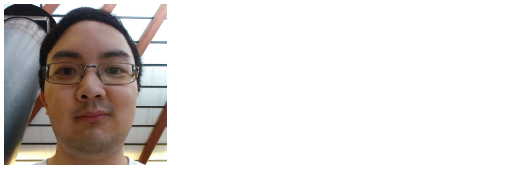
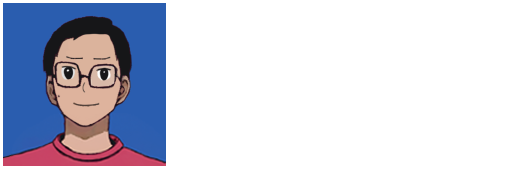
Add more games

Changed region(s): [[0.0, 0.0, 0.3378, 1.0]]

diff --git a/public/index.html b/public/index.html
@@ -1,0 +1,248 @@
+
+<!DOCTYPE html>
+<html lang="en">
+<head>
+    <meta charset="utf-8">
+    <meta http-equiv="X-UA-Compatible" content="IE=edge">    <!-- The above 3 meta tags *must* come first in the head; any other head content must come *after* these tags -->
+
+    <title>Arvin Gunawan - Game Developer</title>
+
+    <!-- Bootstrap CSS -->
+    <link rel="stylesheet" href="https://maxcdn.bootstrapcdn.com/bootstrap/4.0.0-alpha.5/css/bootstrap.min.css"
+          integrity="sha384-AysaV+vQoT3kOAXZkl02PThvDr8HYKPZhNT5h/CXfBThSRXQ6jW5DO2ekP5ViFdi" crossorigin="anonymous">
+    <!-- Custom styles for this template -->
+    <link href="assets/custom.css" rel="stylesheet">
+</head>
+
+<body>
+
+<div class="container-wrapper">
+    <div class="header row clearfix">
+        <nav>
+            <ul class="nav nav-pills float-xs-right">
+                <li class="nav-item">
+                    <a class="nav-link" href="#about-me">About Me</a>
+                </li>
+            </ul>
+        </nav>
+        <div class="logo">
+            <img width="100%" style="max-height: 150px" src="assets/images/ProfilePic+Name.png" alt="">
+        </div>
+    </div>    <div class="row title">
+        <h1><b>Commercial Titles</b></h1>
+    </div>        <div class="row portfolio-item">
+            <div class="thumbnails-wrapper">                    <div id="thumb-topplepop-0" class="thumb">
+                        <img data-carousel-name="topplepop" src="assets/portfolio/topplepop/thumbs/topplepop-youtube-thumb.png" alt="">
+                    </div>                    <div id="thumb-topplepop-1" class="thumb">
+                        <img data-carousel-name="topplepop" src="assets/portfolio/topplepop/thumbs/screenshot1-thumb.jpg" alt="">
+                    </div>                    <div id="thumb-topplepop-2" class="thumb">
+                        <img data-carousel-name="topplepop" src="assets/portfolio/topplepop/thumbs/screenshot2-thumb.jpg" alt="">
+                    </div>                    <div id="thumb-topplepop-3" class="thumb">
+                        <img data-carousel-name="topplepop" src="assets/portfolio/topplepop/thumbs/screenshot3-thumb.jpg" alt="">
+                    </div>                    <div id="thumb-topplepop-4" class="thumb">
+                        <img data-carousel-name="topplepop" src="assets/portfolio/topplepop/thumbs/screenshot4-thumb.jpg" alt="">
+                    </div>            </div>
+            <div class="carousel-wrapper">
+                <div id="topplepop" class="carousel slide" data-ride="carousel">                    <div class="carousel-inner" role="listbox">                            <div class="carousel-item active">                                    <iframe id="youtube-topplepop-1" width="100%" height="402" src="https://www.youtube.com/embed/AJ24FYkqXjg" frameborder="0" allowfullscreen></iframe>                            </div>                            <div class="carousel-item">                                    <img src="assets/portfolio/topplepop/screenshots/screenshot1-large.jpg" alt="">                            </div>                            <div class="carousel-item">                                    <img src="assets/portfolio/topplepop/screenshots/screenshot2-large.jpg" alt="">                            </div>                            <div class="carousel-item">                                    <img src="assets/portfolio/topplepop/screenshots/screenshot3-large.jpg" alt="">                            </div>                            <div class="carousel-item">                                    <img src="assets/portfolio/topplepop/screenshots/screenshot4-large.jpg" alt="">                            </div>                    </div>                </div>
+            </div>
+            <div class="description-wrapper"><h2>TopplePOP</h2>
+<p>
+TopplePOP is physics-based puzzle game for 1-4 players. Designed for solo as well as team play in competitive battles, speed-run leaderboards and spectacular couch co-op parties, or topple the evil megacorp 'Blockcorp' in Story mode!
+</p>
+<p><strong>Release Date: </strong>~2023<br>
+<strong>Platforms: </strong> PC, Switch<br>
+<strong>Website: </strong><a target="_blank" href="https://topplepop.com/">https://topplepop.com/</a></p>
+            </div>
+        </div>        <div class="row portfolio-item">
+            <div class="thumbnails-wrapper">                    <div id="thumb-inflatality-0" class="thumb">
+                        <img data-carousel-name="inflatality" src="assets/portfolio/inflatality/thumbs/inflatality-youtube-thumb.png" alt="">
+                    </div>                    <div id="thumb-inflatality-1" class="thumb">
+                        <img data-carousel-name="inflatality" src="assets/portfolio/inflatality/thumbs/screenshot1-thumb.png" alt="">
+                    </div>                    <div id="thumb-inflatality-2" class="thumb">
+                        <img data-carousel-name="inflatality" src="assets/portfolio/inflatality/thumbs/screenshot2-thumb.png" alt="">
+                    </div>                    <div id="thumb-inflatality-3" class="thumb">
+                        <img data-carousel-name="inflatality" src="assets/portfolio/inflatality/thumbs/screenshot3-thumb.png" alt="">
+                    </div>                    <div id="thumb-inflatality-4" class="thumb">
+                        <img data-carousel-name="inflatality" src="assets/portfolio/inflatality/thumbs/screenshot4-thumb.png" alt="">
+                    </div>            </div>
+            <div class="carousel-wrapper">
+                <div id="inflatality" class="carousel slide" data-ride="carousel">                    <div class="carousel-inner" role="listbox">                            <div class="carousel-item active">                                    <iframe id="youtube-inflatality-1" width="100%" height="402" src="https://www.youtube.com/embed/cs0UsYf9XEQ" frameborder="0" allowfullscreen></iframe>                            </div>                            <div class="carousel-item">                                    <img src="assets/portfolio/inflatality/screenshots/screenshot1-large.jpg" alt="">                            </div>                            <div class="carousel-item">                                    <img src="assets/portfolio/inflatality/screenshots/screenshot2-large.jpg" alt="">                            </div>                            <div class="carousel-item">                                    <img src="assets/portfolio/inflatality/screenshots/screenshot3-large.jpg" alt="">                            </div>                            <div class="carousel-item">                                    <img src="assets/portfolio/inflatality/screenshots/screenshot4-large.jpg" alt="">                            </div>                    </div>                </div>
+            </div>
+            <div class="description-wrapper"><h2>Inflatality</h2>
+<p>Derpy physics-based fighting game featuring inflatable 
+wavers beating on each other
+</p>
+<p>Each player crafts their own waver, complete with personalised faces, colours, decals and special skills, then do battle in hilarious, rubbery flailing combat.</p>
+
+<p>The gameplay is half fumblecore, half brutal action as wind, physics and low  cunning all play vital roles in securing victory.</p>
+
+<p><strong>Release Date: </strong>26/10/2017<br>
+<strong>Platforms: </strong>PC (Steam)<br>
+<strong>Website: </strong><a target="_blank" href="http://www.inflatality.com">http://www.inflatality.com</a></p>
+            </div>
+        </div>        <div class="row portfolio-item">
+            <div class="thumbnails-wrapper">                    <div id="thumb-royalabc-0" class="thumb">
+                        <img data-carousel-name="royalabc" src="assets/portfolio/royalabc/thumbs/royalabc-youtube-thumb.jpg" alt="">
+                    </div>                    <div id="thumb-royalabc-1" class="thumb">
+                        <img data-carousel-name="royalabc" src="assets/portfolio/royalabc/thumbs/screenshot1-thumb.jpg" alt="">
+                    </div>                    <div id="thumb-royalabc-2" class="thumb">
+                        <img data-carousel-name="royalabc" src="assets/portfolio/royalabc/thumbs/screenshot2-thumb.jpg" alt="">
+                    </div>                    <div id="thumb-royalabc-3" class="thumb">
+                        <img data-carousel-name="royalabc" src="assets/portfolio/royalabc/thumbs/screenshot3-thumb.jpg" alt="">
+                    </div>                    <div id="thumb-royalabc-4" class="thumb">
+                        <img data-carousel-name="royalabc" src="assets/portfolio/royalabc/thumbs/screenshot4-thumb.jpg" alt="">
+                    </div>            </div>
+            <div class="carousel-wrapper">
+                <div id="royalabc" class="carousel slide" data-ride="carousel">                    <div class="carousel-inner" role="listbox">                            <div class="carousel-item active">                                    <iframe id="youtube-royalabc-1" width="100%" height="402" src="https://www.youtube.com/embed/krkyxlik1bg" frameborder="0" allowfullscreen></iframe>                            </div>                            <div class="carousel-item">                                    <img src="assets/portfolio/royalabc/screenshots/screenshot1-large.jpg" alt="">                            </div>                            <div class="carousel-item">                                    <img src="assets/portfolio/royalabc/screenshots/screenshot2-large.jpg" alt="">                            </div>                            <div class="carousel-item">                                    <img src="assets/portfolio/royalabc/screenshots/screenshot3-large.jpg" alt="">                            </div>                            <div class="carousel-item">                                    <img src="assets/portfolio/royalabc/screenshots/screenshot4-large.jpg" alt="">                            </div>                    </div>                </div>
+            </div>
+            <div class="description-wrapper"><h2>RoyalABC</h2>
+<p>
+RoyalABC is an educational games platform designed to help young kids all over the world in English Learning as well as other 21st century skills. 
+</p>
+<p><strong>Release Date: </strong>2016<br>
+<strong>Platforms: </strong> PC, iOS, Android<br>
+<strong>Website: </strong> <a target="_blank" href="https://royalabc.com/gb/">https://royalabc.com/gb/</a></p>
+            </div>
+        </div>        <div class="row portfolio-item">
+            <div class="thumbnails-wrapper">                    <div id="thumb-readysetgolf-0" class="thumb">
+                        <img data-carousel-name="readysetgolf" src="assets/portfolio/readysetgolf/thumbs/readysetgolf-youtube-thumb.png" alt="">
+                    </div>                    <div id="thumb-readysetgolf-1" class="thumb">
+                        <img data-carousel-name="readysetgolf" src="assets/portfolio/readysetgolf/thumbs/screenshot1-thumb.png" alt="">
+                    </div>                    <div id="thumb-readysetgolf-2" class="thumb">
+                        <img data-carousel-name="readysetgolf" src="assets/portfolio/readysetgolf/thumbs/screenshot2-thumb.png" alt="">
+                    </div>                    <div id="thumb-readysetgolf-3" class="thumb">
+                        <img data-carousel-name="readysetgolf" src="assets/portfolio/readysetgolf/thumbs/screenshot3-thumb.png" alt="">
+                    </div>                    <div id="thumb-readysetgolf-4" class="thumb">
+                        <img data-carousel-name="readysetgolf" src="assets/portfolio/readysetgolf/thumbs/screenshot4-thumb.png" alt="">
+                    </div>            </div>
+            <div class="carousel-wrapper">
+                <div id="readysetgolf" class="carousel slide" data-ride="carousel">                    <div class="carousel-inner" role="listbox">                            <div class="carousel-item active">                                    <iframe id="youtube-readysetgolf-1" width="100%" height="402" src="https://www.youtube.com/embed/6FOHZIvlilM" frameborder="0" allowfullscreen></iframe>                            </div>                            <div class="carousel-item">                                    <img src="assets/portfolio/readysetgolf/screenshots/screenshot1-large.png" alt="">                            </div>                            <div class="carousel-item">                                    <img src="assets/portfolio/readysetgolf/screenshots/screenshot2-large.png" alt="">                            </div>                            <div class="carousel-item">                                    <img src="assets/portfolio/readysetgolf/screenshots/screenshot3-large.png" alt="">                            </div>                            <div class="carousel-item">                                    <img src="assets/portfolio/readysetgolf/screenshots/screenshot4-large.png" alt="">                            </div>                    </div>                </div>
+            </div>
+            <div class="description-wrapper"><h2>Ready, Set, Golf!</h2>
+<p>Ready? Set, Golf! is a simple mini-golf game with some twists! Portals! Buttons to open up new paths! Hazardous waters, and more stand in the way between you and the goal.</p>
+<p>
+    <strong>Release Date:</strong> 16/06/2018 <br>
+    <strong>Platforms:</strong>  Android <br>
+    <a target="_blank" href='https://play.google.com/store/apps/details?id=com.deepforge.pgolf'><img style="margin-left: -20px;" width='300px' alt='Get it on Google Play' src='https://play.google.com/intl/en_us/badges/images/generic/en_badge_web_generic.png'/></a>
+</p>
+
+
+            </div>
+        </div>        <div class="row portfolio-item">
+            <div class="thumbnails-wrapper">                    <div id="thumb-catscape-0" class="thumb">
+                        <img data-carousel-name="catscape" src="assets/portfolio/catscape/thumbs/catscape-youtube-thumb.png" alt="">
+                    </div>                    <div id="thumb-catscape-1" class="thumb">
+                        <img data-carousel-name="catscape" src="assets/portfolio/catscape/thumbs/screenshot1-thumb.png" alt="">
+                    </div>                    <div id="thumb-catscape-2" class="thumb">
+                        <img data-carousel-name="catscape" src="assets/portfolio/catscape/thumbs/screenshot2-thumb.png" alt="">
+                    </div>                    <div id="thumb-catscape-3" class="thumb">
+                        <img data-carousel-name="catscape" src="assets/portfolio/catscape/thumbs/screenshot3-thumb.png" alt="">
+                    </div>                    <div id="thumb-catscape-4" class="thumb">
+                        <img data-carousel-name="catscape" src="assets/portfolio/catscape/thumbs/screenshot4-thumb.png" alt="">
+                    </div>            </div>
+            <div class="carousel-wrapper">
+                <div id="catscape" class="carousel slide" data-ride="carousel">                    <div class="carousel-inner" role="listbox">                            <div class="carousel-item active">                                    <iframe id="youtube-catscape-1" width="100%" height="402" src="https://www.youtube.com/embed/zRuFa8wdIno" frameborder="0" allowfullscreen></iframe>                            </div>                            <div class="carousel-item">                                    <img src="assets/portfolio/catscape/screenshots/screenshot1-large.png" alt="">                            </div>                            <div class="carousel-item">                                    <img src="assets/portfolio/catscape/screenshots/screenshot2-large.png" alt="">                            </div>                            <div class="carousel-item">                                    <img src="assets/portfolio/catscape/screenshots/screenshot3-large.png" alt="">                            </div>                            <div class="carousel-item">                                    <img src="assets/portfolio/catscape/screenshots/screenshot4-large.png" alt="">                            </div>                    </div>                </div>
+            </div>
+            <div class="description-wrapper"><h2>Catscape</h2>
+<p>Become a Ninja Cat and swing your way through the obstacle course
+    of doom.</p>
+<P>An Arcade style endless runner mobile game with simple one
+    button control. Tap and hold the screen to grapple onto the ceiling
+    and release.</P>
+<p>
+    <strong>Release Date: </strong>25/2/2015 <br>
+    <strong>Platforms: </strong>Android <br>
+    <a target="_blank" href='https://play.google.com/store/apps/details?id=com.deepforge.catscape'><img style="margin-left: -20px;" width='300px' alt='Get it on Google Play' src='https://play.google.com/intl/en_us/badges/images/generic/en_badge_web_generic.png'/></a>
+</p>
+
+
+            </div>
+        </div>    <div class="row title">
+        <h1><b>Jam Games</b></h1>
+    </div>
+    <div class="row">
+        <div class="thumbnails-wrapper-horizontal">                    <div id="thumb-shootyballz-0" class="thumb col-sm">
+                        <a href="https://arvz.itch.io/shooty-ballz">
+                            <img class="gamejam-thumb" src="assets/portfolio/shootyballz/thumbs/screenshot1-thumb.gif" alt="" />
+                            <div class="gamejam-title">Shooty Ballz</div>
+                        </a>
+                    </div>                    <div id="thumb-tangerine-0" class="thumb col-sm">
+                        <a href="https://arvz.itch.io/tangerino">
+                            <img class="gamejam-thumb" src="assets/portfolio/tangerine/thumbs/screenshot1-thumb.gif" alt="" />
+                            <div class="gamejam-title">Tangerine Massacre</div>
+                        </a>
+                    </div>                    <div id="thumb-spms2077-0" class="thumb col-sm">
+                        <a href="https://arvz.itch.io/spaceship2077">
+                            <img class="gamejam-thumb" src="assets/portfolio/spms2077/thumbs/screenshot1-thumb.gif" alt="" />
+                            <div class="gamejam-title">Spaceship Power Management Simulator 2077</div>
+                        </a>
+                    </div>                    <div id="thumb-kcf-0" class="thumb col-sm">
+                        <a href="https://globalgamejam.org/2022/games/kfc-krazy-frickin-chicken-7">
+                            <img class="gamejam-thumb" src="assets/portfolio/kcf/thumbs/screenshot1-thumb.png" alt="" />
+                            <div class="gamejam-title">Krazy Chicken Frenzy</div>
+                        </a>
+                    </div>                    <div id="thumb-poseidoom-0" class="thumb col-sm">
+                        <a href="https://globalgamejam.org/2017/games/poseidoom">
+                            <img class="gamejam-thumb" src="assets/portfolio/poseidoom/thumbs/screenshot1-thumb.jpg" alt="" />
+                            <div class="gamejam-title">Poseidoom</div>
+                        </a>
+                    </div>                    <div id="thumb-godofchance-0" class="thumb col-sm">
+                        <a href="https://arvz.itch.io/god-of-chance">
+                            <img class="gamejam-thumb" src="assets/portfolio/godofchance/thumbs/screenshot1-thumb.jpg" alt="" />
+                            <div class="gamejam-title">God of Chance</div>
+                        </a>
+                    </div>                    <div id="thumb-hotf-0" class="thumb col-sm">
+                        <a href="">
+                            <img class="gamejam-thumb" src="assets/portfolio/hotf/thumbs/screenshot1-thumb.png" alt="" />
+                            <div class="gamejam-title">Heart of the Forest</div>
+                        </a>
+                    </div>                    <div id="thumb-monstergotchi-0" class="thumb col-sm">
+                        <a href="https://globalgamejam.org/2016/games/monstergotchi">
+                            <img class="gamejam-thumb" src="assets/portfolio/monstergotchi/thumbs/screenshot1-thumb.png" alt="" />
+                            <div class="gamejam-title">Monstergotchi</div>
+                        </a>
+                    </div>                    <div id="thumb-psycopath-0" class="thumb col-sm">
+                        <a href="https://globalgamejam.org/2014/games/psyco-path">
+                            <img class="gamejam-thumb" src="assets/portfolio/psycopath/thumbs/screenshot1-thumb.png" alt="" />
+                            <div class="gamejam-title">Psycopath</div>
+                        </a>
+                    </div>        </div>
+    </div>
+
+    <div id="about-me" class="row about">
+        <h2>About Me</h2>
+        <p>
+            Hey there! I'm a Unity and C# game developer who lives and breathes video games. Based in Sydney, Australia, I've been at it since 2013 and have released a bunch of titles across PC, mobile and have worked in porting games to Switch. 
+            I've been using Unity since version 3, and have been following its development closely ever since. I know the ins and outs of the engine and can adapt to any development scenario.
+        </p>
+        <p>
+            In addition to my game dev skills, I have a particular interest for writing editor tools and making the development process as smooth as possible. I love streamlining workflows, making things more efficient and user-friendly, 
+            and finding ways to automate repetitive tasks. This means I can not only improve the development process but also help my team members focus on the fun and creative parts of game development. I've got some skills in other parts of game dev too - 
+            I'm pretty handy with Photoshop, and know my around Blender. 
+        </p>
+        <p>
+            My favourite game genre is JRPGs, Some of my all-time faves include Xenogears, The Witcher 3, the Mass Effect series, and the Legend of Heroes series, but I also love a variety of other genres like Strategy and Metroidvania.
+        </p>
+    </div>
+    <footer class="footer">
+        <p>&copy; Arvin Gunawan 2023</p>
+    </footer>
+
+</div> <!-- /container -->
+
+
+<!-- Bootstrap core JavaScript
+================================================== -->
+<!-- Placed at the end of the document so the pages load faster -->
+
+<!-- IE10 viewport hack for Surface/desktop Windows 8 bug -->
+<script src="assets/ie10-viewport-bug-workaround.js"></script>
+
+<!-- jQuery first, then Tether, then Bootstrap JS. -->
+<script src="https://ajax.googleapis.com/ajax/libs/jquery/3.1.1/jquery.min.js" integrity="sha384-3ceskX3iaEnIogmQchP8opvBy3Mi7Ce34nWjpBIwVTHfGYWQS9jwHDVRnpKKHJg7" crossorigin="anonymous"></script>
+<script src="https://cdnjs.cloudflare.com/ajax/libs/tether/1.3.7/js/tether.min.js" integrity="sha384-XTs3FgkjiBgo8qjEjBk0tGmf3wPrWtA6coPfQDfFEY8AnYJwjalXCiosYRBIBZX8" crossorigin="anonymous"></script>
+<script src="https://maxcdn.bootstrapcdn.com/bootstrap/4.0.0-alpha.5/js/bootstrap.min.js" integrity="sha384-BLiI7JTZm+JWlgKa0M0kGRpJbF2J8q+qreVrKBC47e3K6BW78kGLrCkeRX6I9RoK" crossorigin="anonymous"></script>
+
+<script src="assets/custom.js"></script>
+</body>
+</html>

diff --git a/src/route.php b/src/route.php
@@ -5,9 +5,26 @@ require_once '../vendor/autoload.php';
 use Slim\Slim;
 
 $released = [
+    'koala' => [
+        'portfolio' => [
+            'screenshot1-large.jpg' => 'screenshot1-thumb.jpg',
+            'screenshot2-large.jpg' => 'screenshot2-thumb.jpg',
+            'screenshot3-large.jpg' => 'screenshot3-thumb.jpg',
+            'screenshot4-large.jpg' => 'screenshot4-thumb.jpg',
+        ],
+    ],
+    'nowayhome' => [
+        'portfolio' => [
+            'https://www.youtube.com/embed/BkDcQbbdaVo' => 'nowayhome-youtube-thumb.png',
+            'screenshot1-large.jpg' => 'screenshot1-thumb.jpg',
+            'screenshot2-large.jpg' => 'screenshot2-thumb.jpg',
+            'screenshot3-large.jpg' => 'screenshot3-thumb.jpg',
+            'screenshot4-large.jpg' => 'screenshot4-thumb.jpg',
+        ],
+    ],
     'topplepop' => [
         'portfolio' => [
-            'https://www.youtube.com/embed/AJ24FYkqXjg' => 'topplepop-youtube-thumb.png',
+            'https://www.youtube.com/embed/eSeksWr9JHs' => 'topplepop-youtube-thumb.png',
             'screenshot1-large.jpg' => 'screenshot1-thumb.jpg',
             'screenshot2-large.jpg' => 'screenshot2-thumb.jpg',
             'screenshot3-large.jpg' => 'screenshot3-thumb.jpg',
@@ -23,7 +40,7 @@ $released = [
             'screenshot4-large.jpg' => 'screenshot4-thumb.png',
         ],
     ],
-    'RoyalABC' => [
+    'royalabc' => [
         'portfolio' => [
             'https://www.youtube.com/embed/krkyxlik1bg' => 'royalabc-youtube-thumb.jpg',
             'screenshot1-large.jpg' => 'screenshot1-thumb.jpg',
@@ -53,6 +70,13 @@ $released = [
 ];
 
 $gamejams = [
+    'driveytruckz' => [
+        'portfolio' => [
+            'screenshot1-thumb.jpg' => 'screenshot1-thumb.jpg',
+        ],
+        'link' => 'https://arvz.itch.io/drivey-truckz-scale-of-the-mountain',
+        'title' => 'Drivey Truckz'
+    ],
     'shootyballz' => [
         'portfolio' => [
             'screenshot1-large.gif' => 'screenshot1-thumb.gif',
